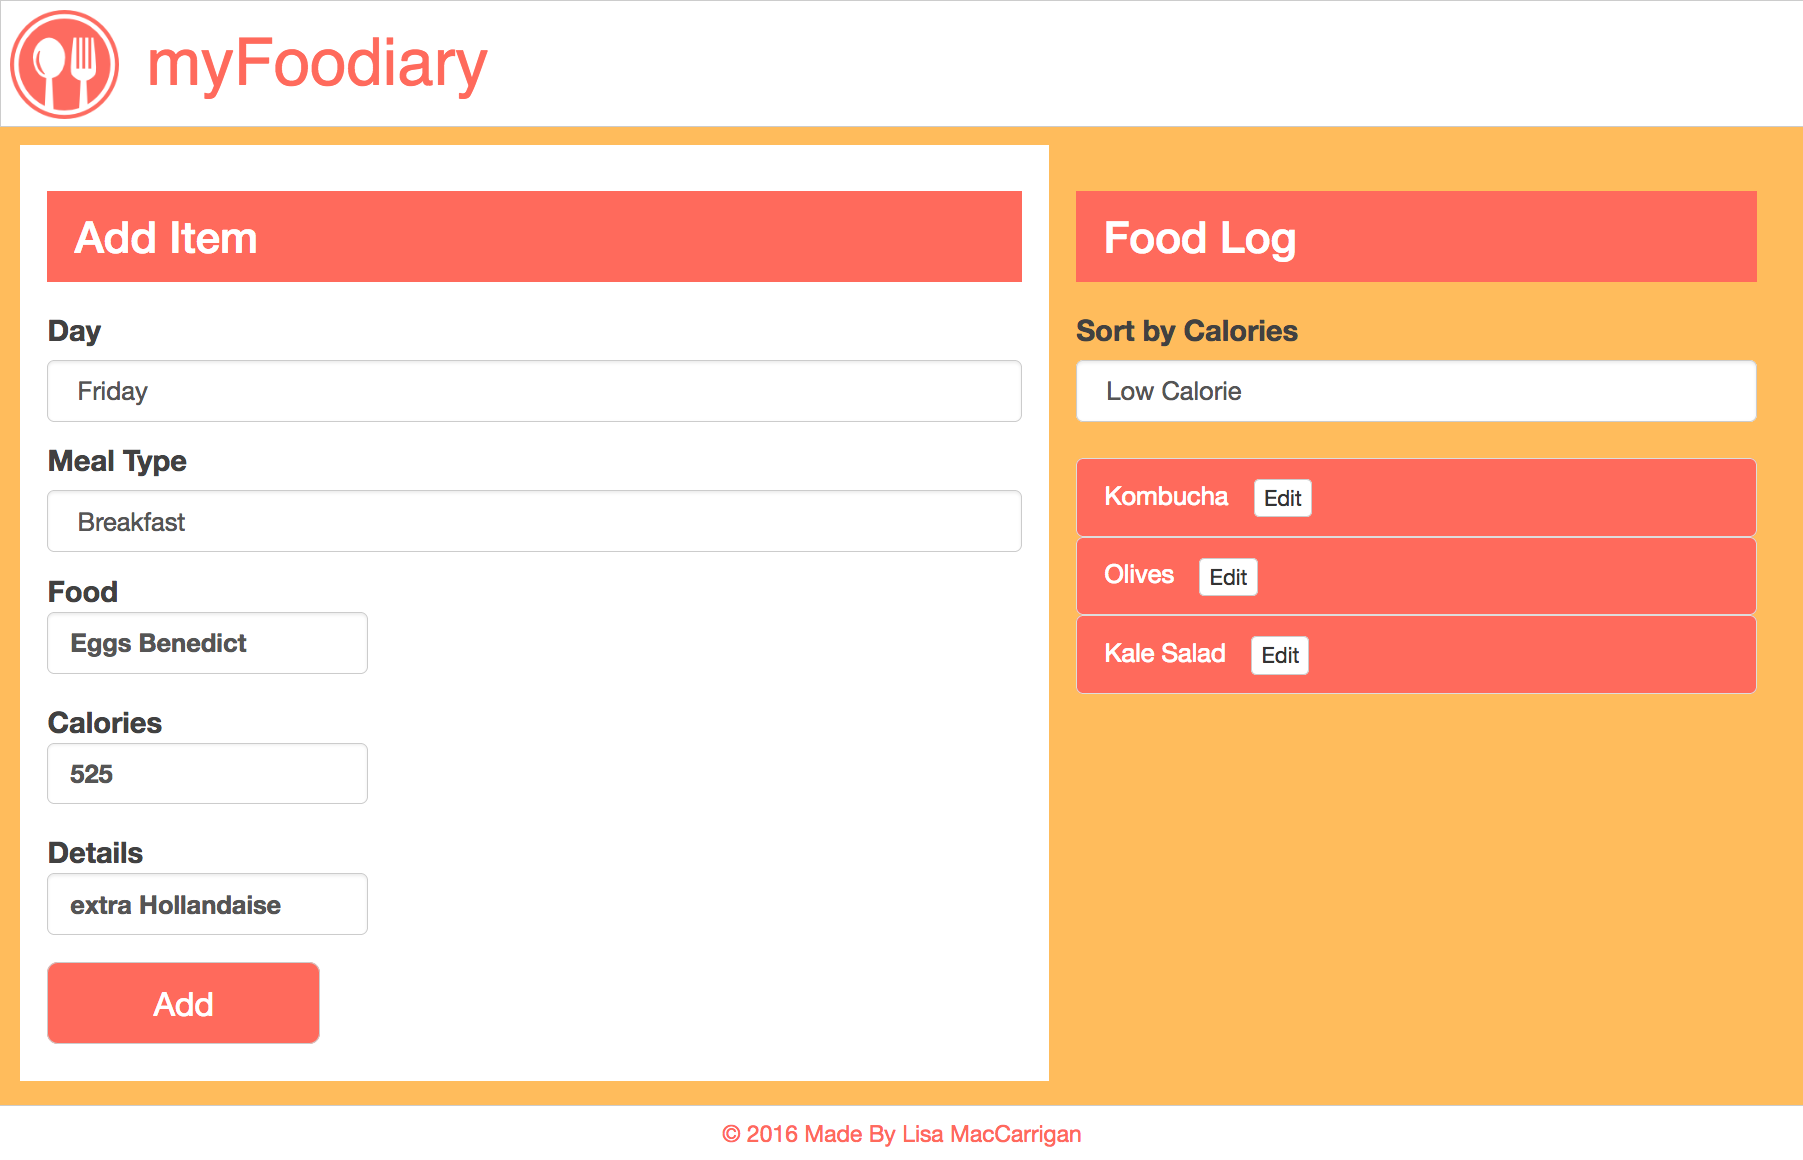
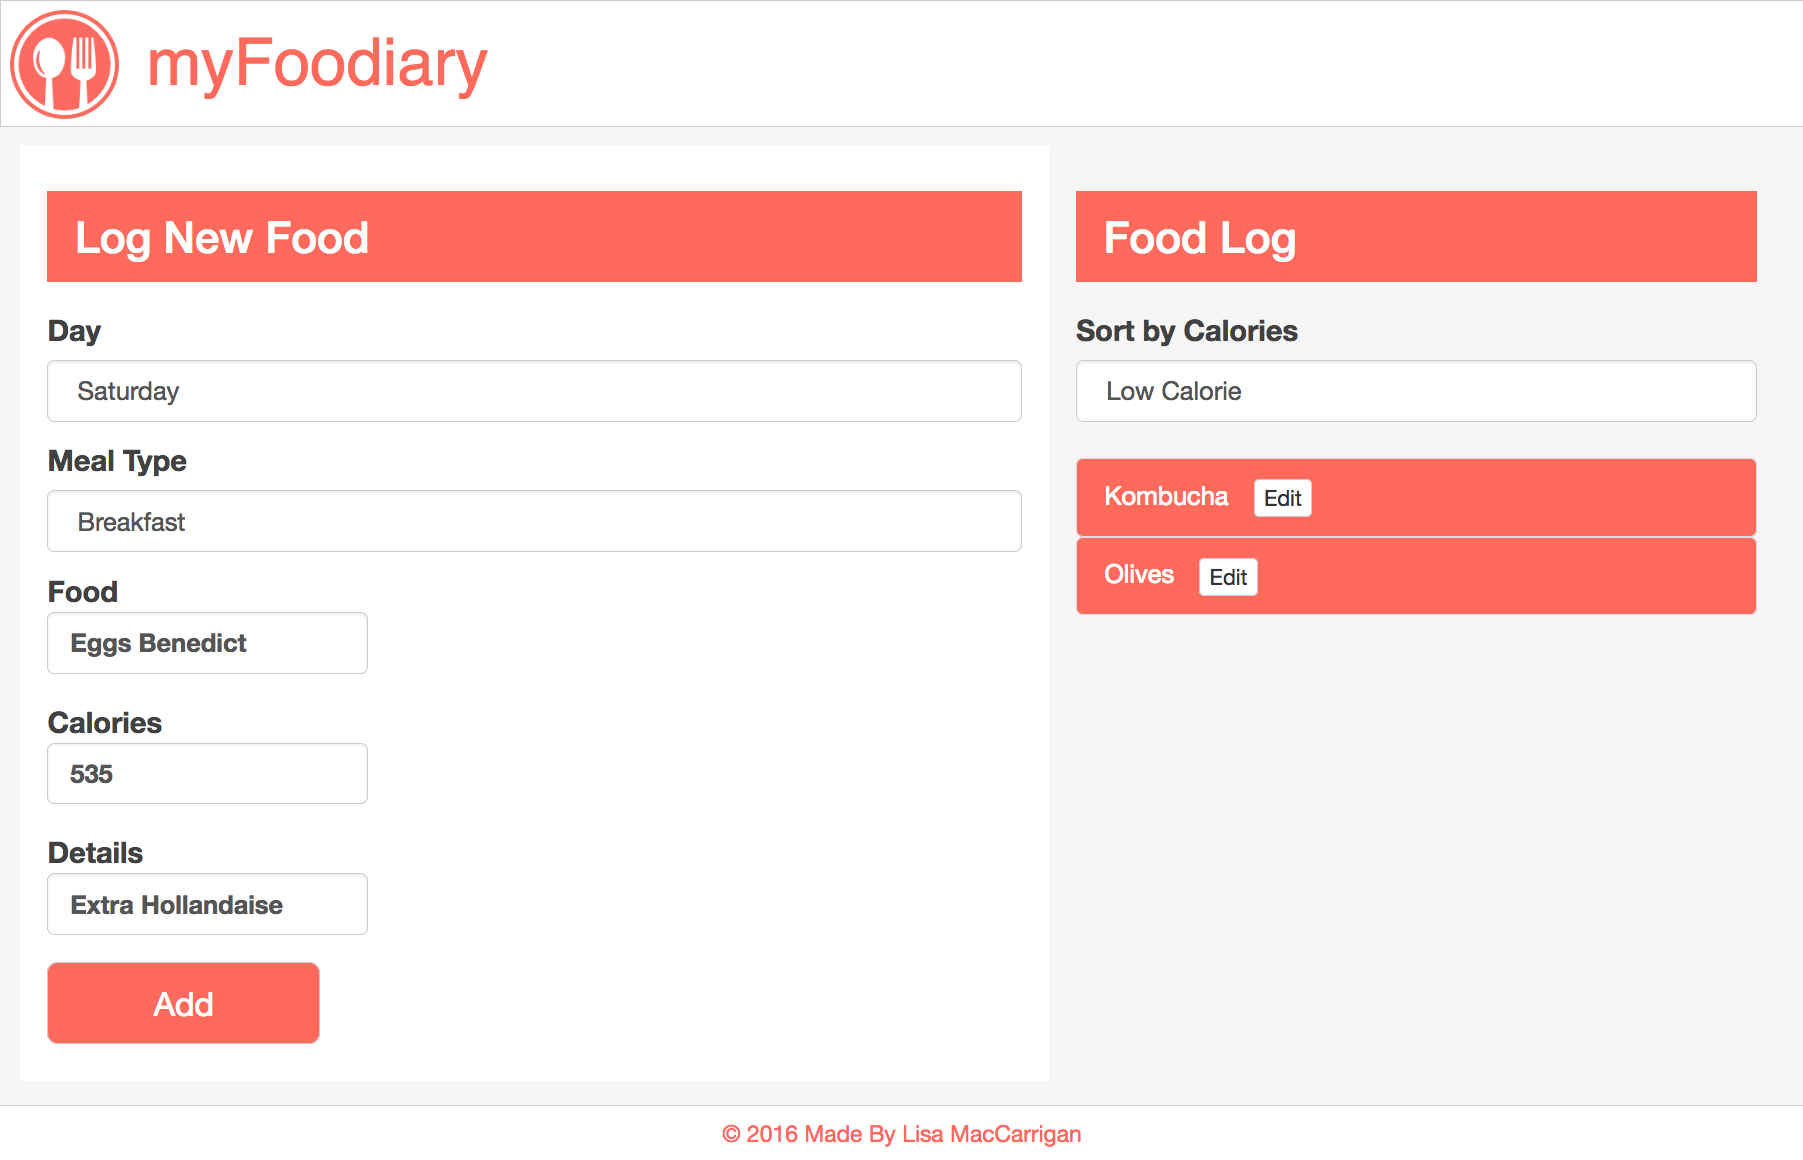
change background color, add new web-app screenshot

Changed region(s): [[0.0, 0.0931, 1.0, 0.9621]]

diff --git a/app/new-food.component.ts b/app/new-food.component.ts
@@ -5,7 +5,7 @@ import { Food } from './food.model';
   selector: 'new-food',
   template: `
   <div class="food-title-container">
-    <h3>Add Item</h3>
+    <h3>Log New Food</h3>
   </div>
   <div class="form-group">
     <label class="food-form-label" for="day-of-week">Day</label>

diff --git a/resources/styles/styles.css b/resources/styles/styles.css
@@ -6,7 +6,7 @@
 
 html, body {
   margin: 0;
-  background-color: #FFBC5C;
+  background-color: #F6F6F6;
 }
 
 .row {
